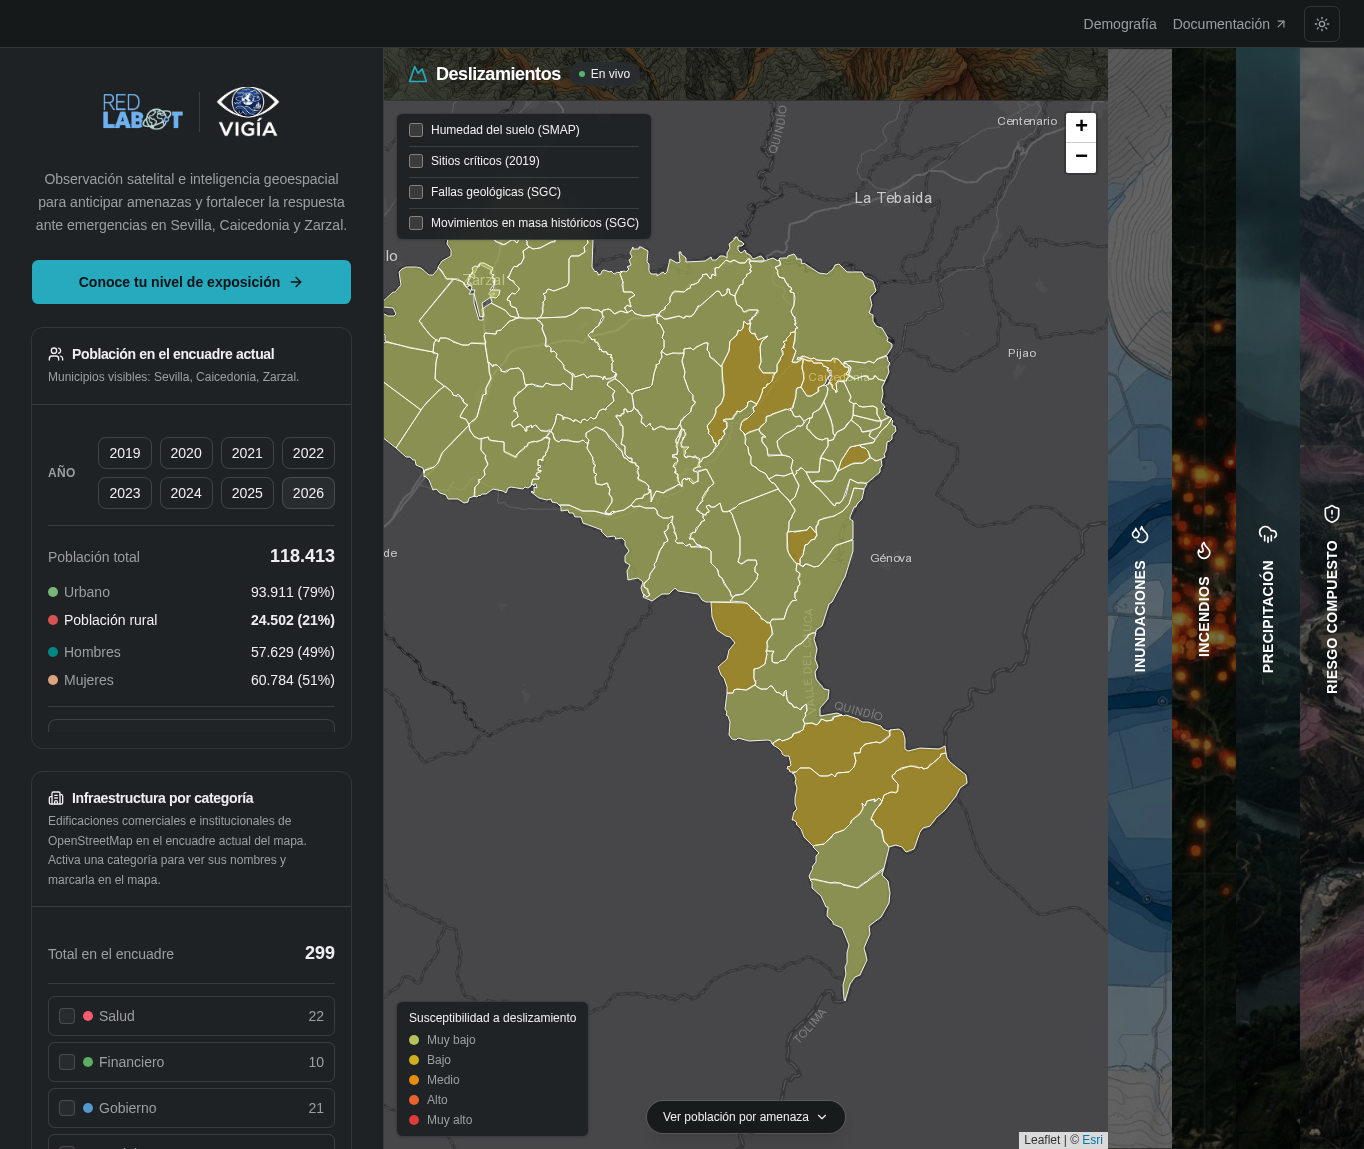
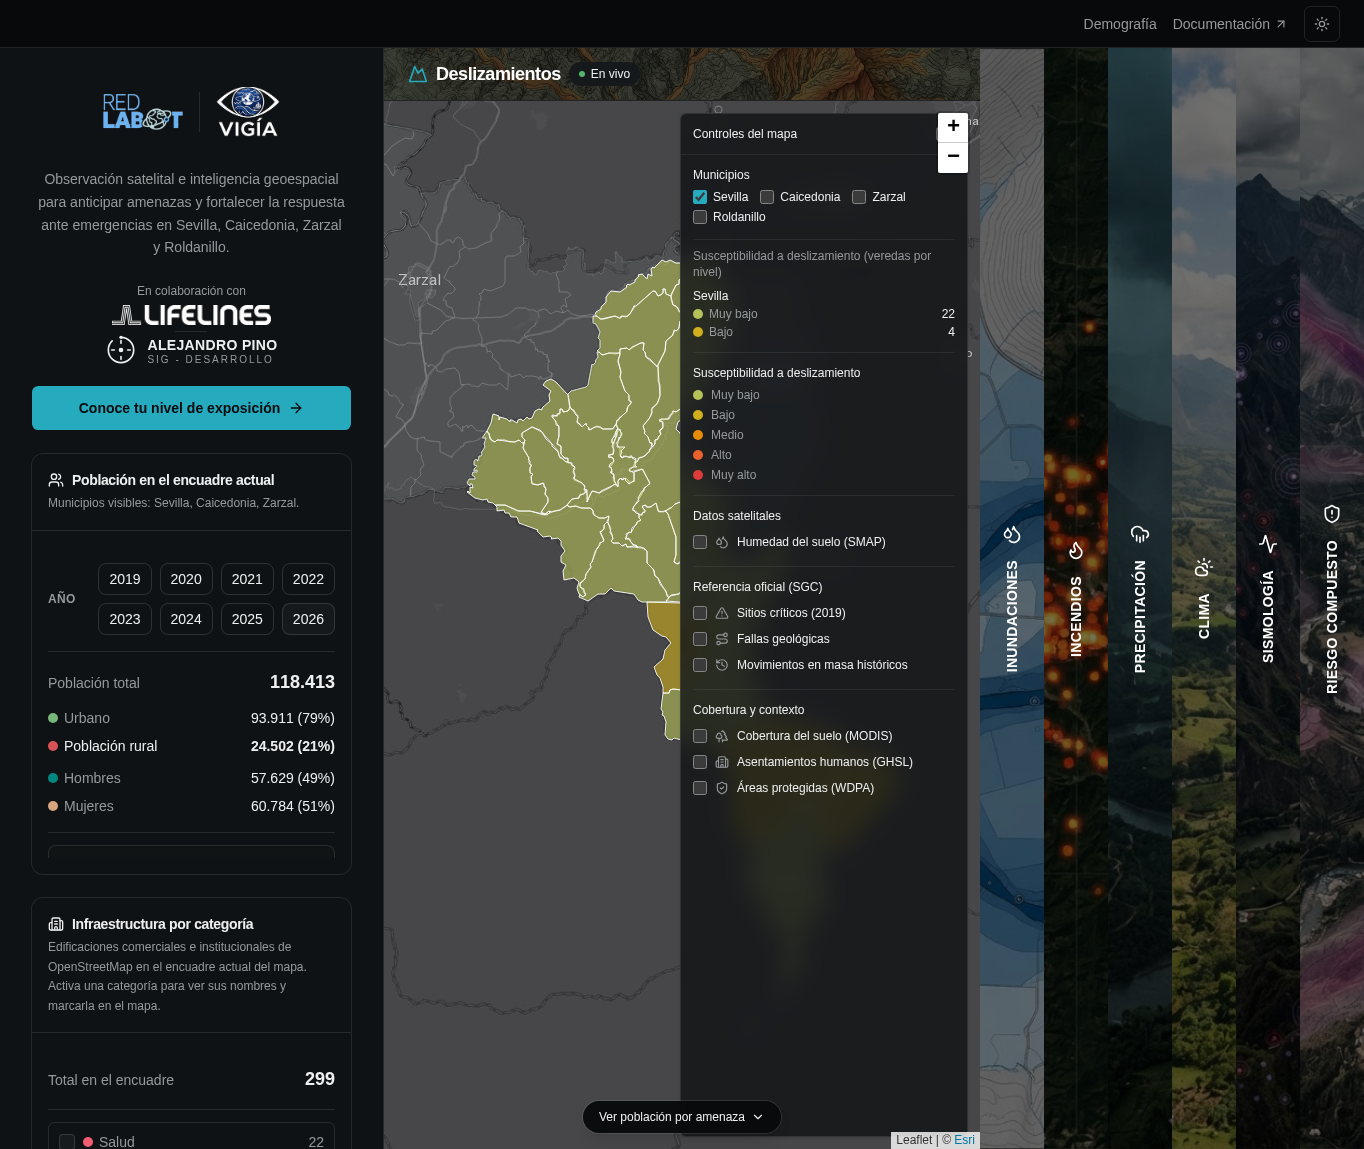
feat: update threat map control and add new images
Updated threat map activation to a right-side panel, added new images

diff --git a/components/documentacion/section-uso.tsx b/components/documentacion/section-uso.tsx
@@ -22,7 +22,7 @@ const STEPS: GuideStep[] = [
     simple:
       "Cuando abres Vigía, ya estás viendo un mapa. A la derecha hay seis franjas verticales con un ícono cada una: Deslizamientos, Inundaciones, Incendios, Precipitación, Clima y Sismología (más Riesgo compuesto, que junta las cinco amenazas). Clima es un reporte del tiempo, no una amenaza. Toca cualquier franja y el mapa completo cambia a esa vista — no se abre una página nueva, todo pasa en la misma pantalla.",
     technical:
-      "Cada amenaza carga su propio mapa Leaflet con capas independientes que se activan y desactivan con las casillas de la esquina superior izquierda (por ejemplo, \"Humedad del suelo (SMAP)\" o \"Fallas geológicas (SGC)\"). La leyenda de colores está siempre en la esquina inferior — de verde (muy bajo) a rojo (muy alto).",
+      "Cada amenaza carga su propio mapa Leaflet con capas independientes que se activan y desactivan desde un único panel de control acoplado al borde derecho del mapa (por ejemplo, \"Humedad del suelo (SMAP)\" o \"Fallas geológicas (SGC)\"), agrupadas por Municipios, capas satelitales y capas de referencia oficial. La leyenda de colores activa aparece dentro del mismo panel — de verde (muy bajo) a rojo (muy alto) — y el panel se puede colapsar a una franja de íconos para dejar el mapa a pantalla completa.",
     image: {
       src: "/images/docs/panel-principal.png",
       alt: "Panel principal de Vigía mostrando el mapa de deslizamientos, la leyenda de colores y las franjas de las otras amenazas a la derecha",
